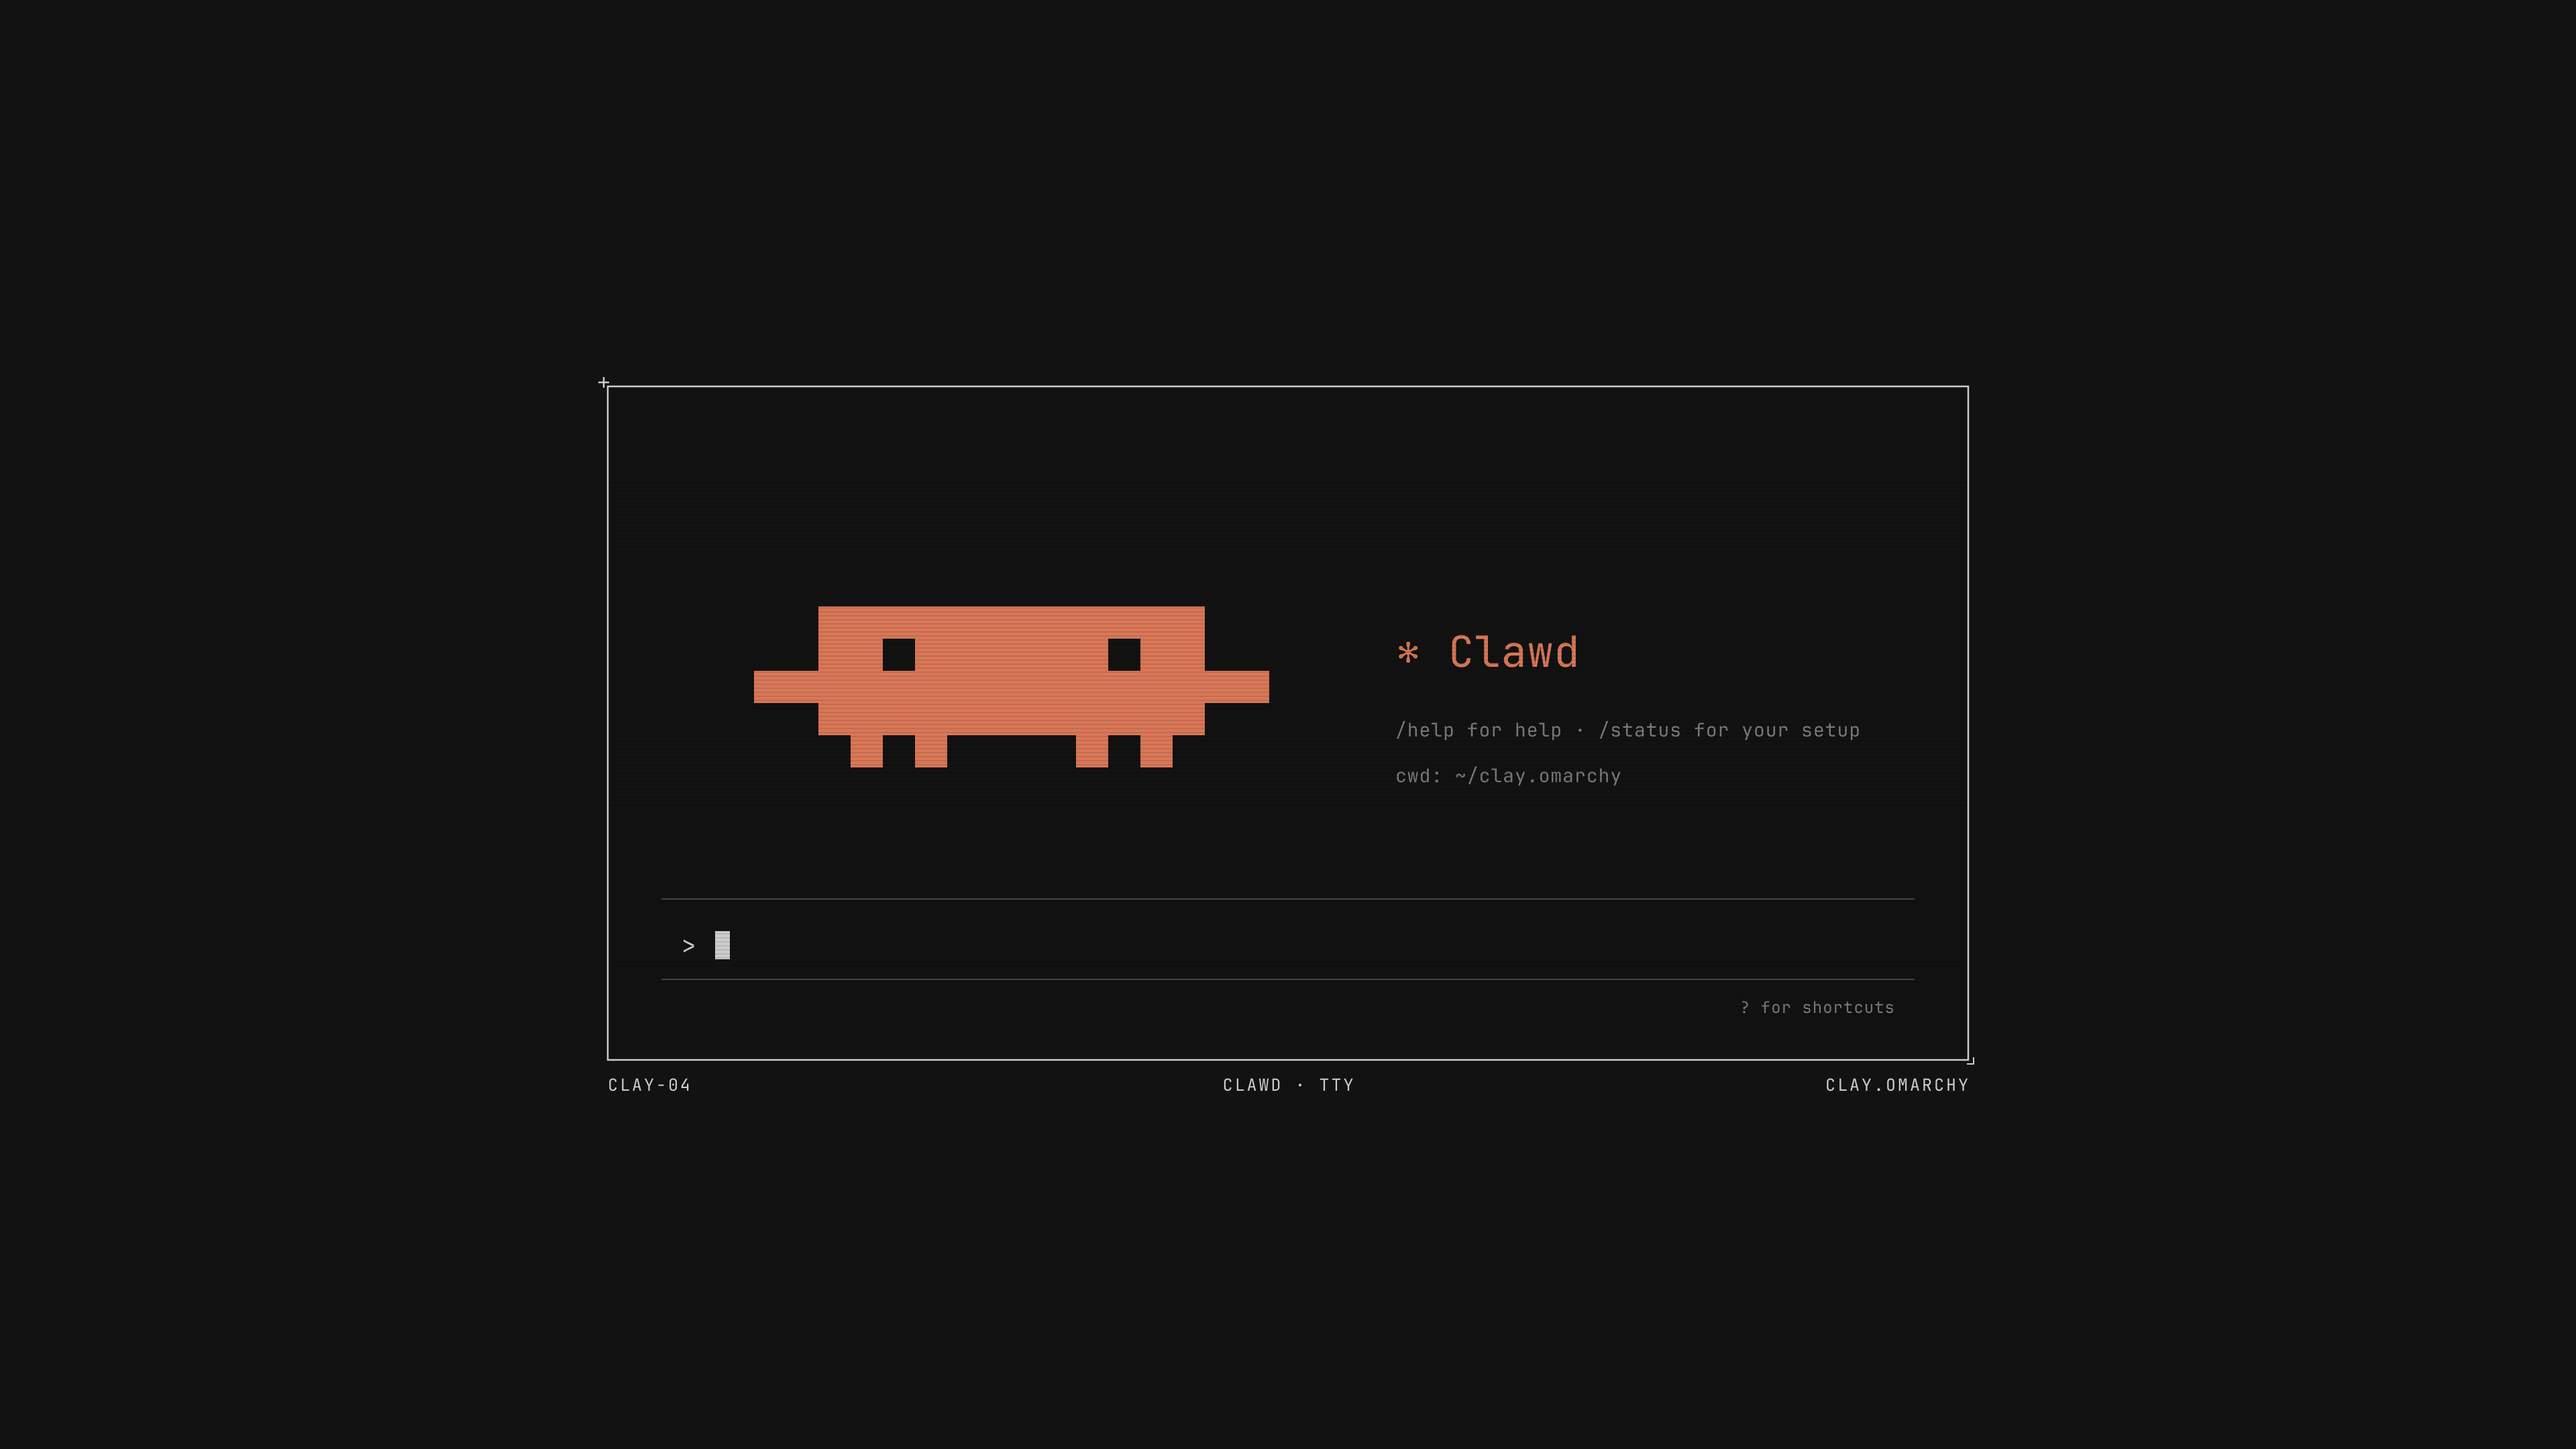
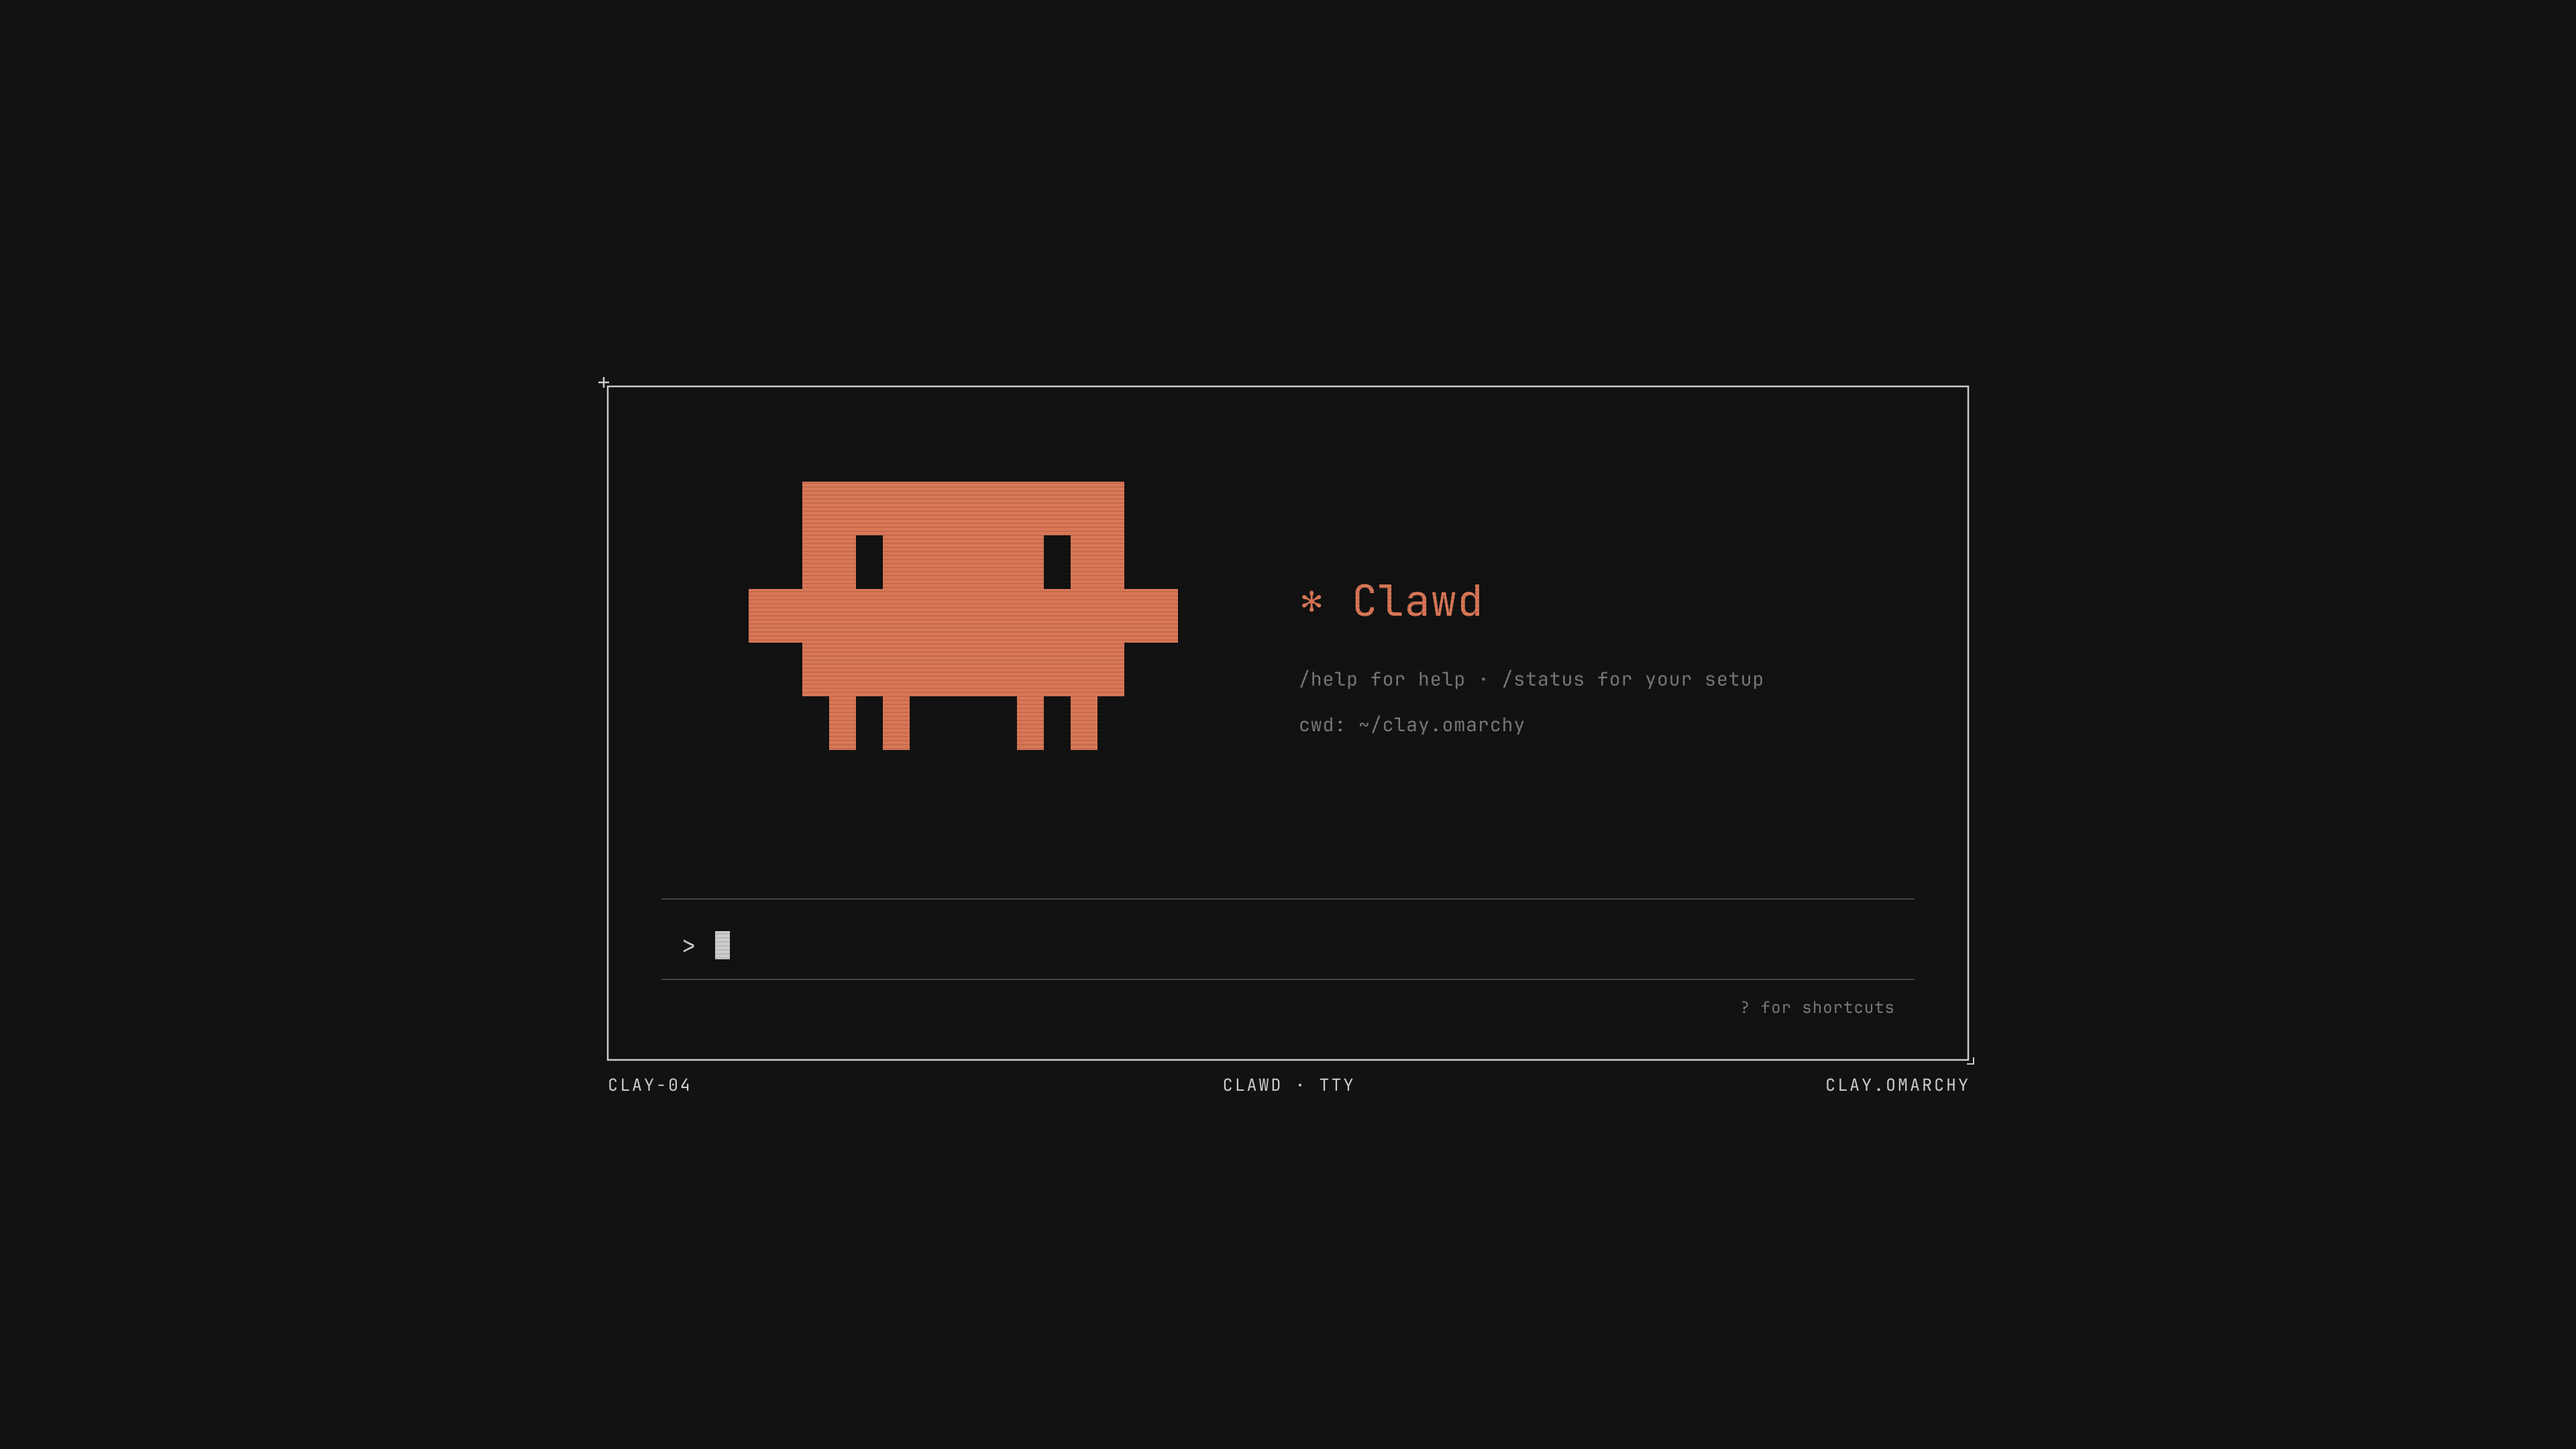
fix(wallpaper): draw the terminal Clawd with 1:2 quadrant pixels

Changed region(s): [[0.2812, 0.3102, 0.5, 0.5273], [0.5, 0.4032, 0.625, 0.4653], [0.5312, 0.4963, 0.5938, 0.5273]]

diff --git a/scripts/clawd_wallpapers.py b/scripts/clawd_wallpapers.py
@@ -233,6 +233,7 @@ def horizon():
 # ------------------------------------------------------------ 04 TERMINAL
 def terminal():
     # The CLI mark decoded from its quadrant block glyphs into an 18x6 pixel grid.
+    # Terminal cells are ~1:2, so each quadrant pixel is twice as tall as it is wide.
     rows = [" ▐▛███▜▌", "▝▜█████▛▘", "  ▘▘ ▝▝"]
     quad = {"█": "1111", "▐": "0101", "▌": "1010", "▛": "1110", "▜": "1101",
             "▝": "0100", "▘": "1000", " ": "0000"}  # TL TR BL BR
@@ -243,18 +244,18 @@ def terminal():
             for i, bit in enumerate(q):
                 if bit == "1":
                     px.add((c * 2 + i % 2, r * 2 + i // 2))
-    s = 48
+    sx, sy = 40, 80
     ox = FX + 170
-    oy = FY + (FH - 6 * s) / 2 - 30
+    oy = FY + (FH - 240 - 6 * sy) / 2  # centred above the prompt rule
     mono = f'font-family="{FONT}" letter-spacing="1"'
-    tx = ox + 18 * s + 140
+    tx = ox + 18 * sx + 140
     lines = [
         (CLAY, 64, "✻ Clawd"),
         (MUTED, 28, "/help for help · /status for your setup"),
         (MUTED, 28, "cwd: ~/clay.omarchy"),
     ]
     txt = ""
-    y = oy + 90
+    y = oy + 3 * sy - 40
     for fill, size, t in lines:
         txt += f'<text x="{tx}" y="{y}" {mono} font-size="{size}" fill="{fill}">{t}</text>'
         y += size + 40
@@ -264,8 +265,10 @@ def terminal():
               f'<rect x="{FX+160}" y="{prompt_y-22}" width="22" height="42" fill="{LINE}"/>'
               f'<text x="{FX+FW-110}" y="{prompt_y+100}" text-anchor="end" {mono} font-size="24" fill="{MUTED}">? for shortcuts</text>')
     scan = "".join(f'<path d="M {FX},{FY+i*6} H {FX+FW}"/>' for i in range(0, FH // 6))
+    sprite = "\n".join(f'<rect x="{ox+x*sx}" y="{oy+y*sy}" width="{sx}" height="{sy}" fill="{CLAY}"/>'
+                       for x, y in sorted(px))
     body = f'''  <g clip-path="url(#frame)">
-    {cells(px, ox, oy, s, CLAY)}
+    {sprite}
     {txt}
     {prompt}
     <g stroke="#000" stroke-width="2" opacity="{SCAN}">{scan}</g>

diff --git a/CHANGELOG.md b/CHANGELOG.md
@@ -24,6 +24,7 @@
 - 暗色色板对齐 clay.nvim 设计规范：底色由偏冷的 `#111315` 改为中性 `#121212`，选区 `#363636`，强调文字 `#e6e6e6`，`dark_foreground` 改为 `#8e8e8e`，使 btop 渐变等由弱到强单调递增。
 - ANSI 槽按设计规范的终端色表填写：`red` / `bright_red` 改为 Clay，`green` / `bright_green` 为强调灰，其余为灰阶。状态栏注意色、终端当前搜索匹配随之变为 Clay；应用模板中复用 `red` 的错误色也变为 Clay。
 - 壁纸按新色板重新生成，移除偏冷的灰色；Clawd Unit 的阴影带裁切到机身内，不再压暗画布与眼孔。
+- Clawd Terminal（`05-clawd-terminal.png`，暗色与亮色）按终端字符格约 1:2 的比例绘制象限块像素（宽 40、高 80），修正 Clawd 被纵向压扁；右侧文字随之与机身垂直居中。
 
 ### Verified
 
